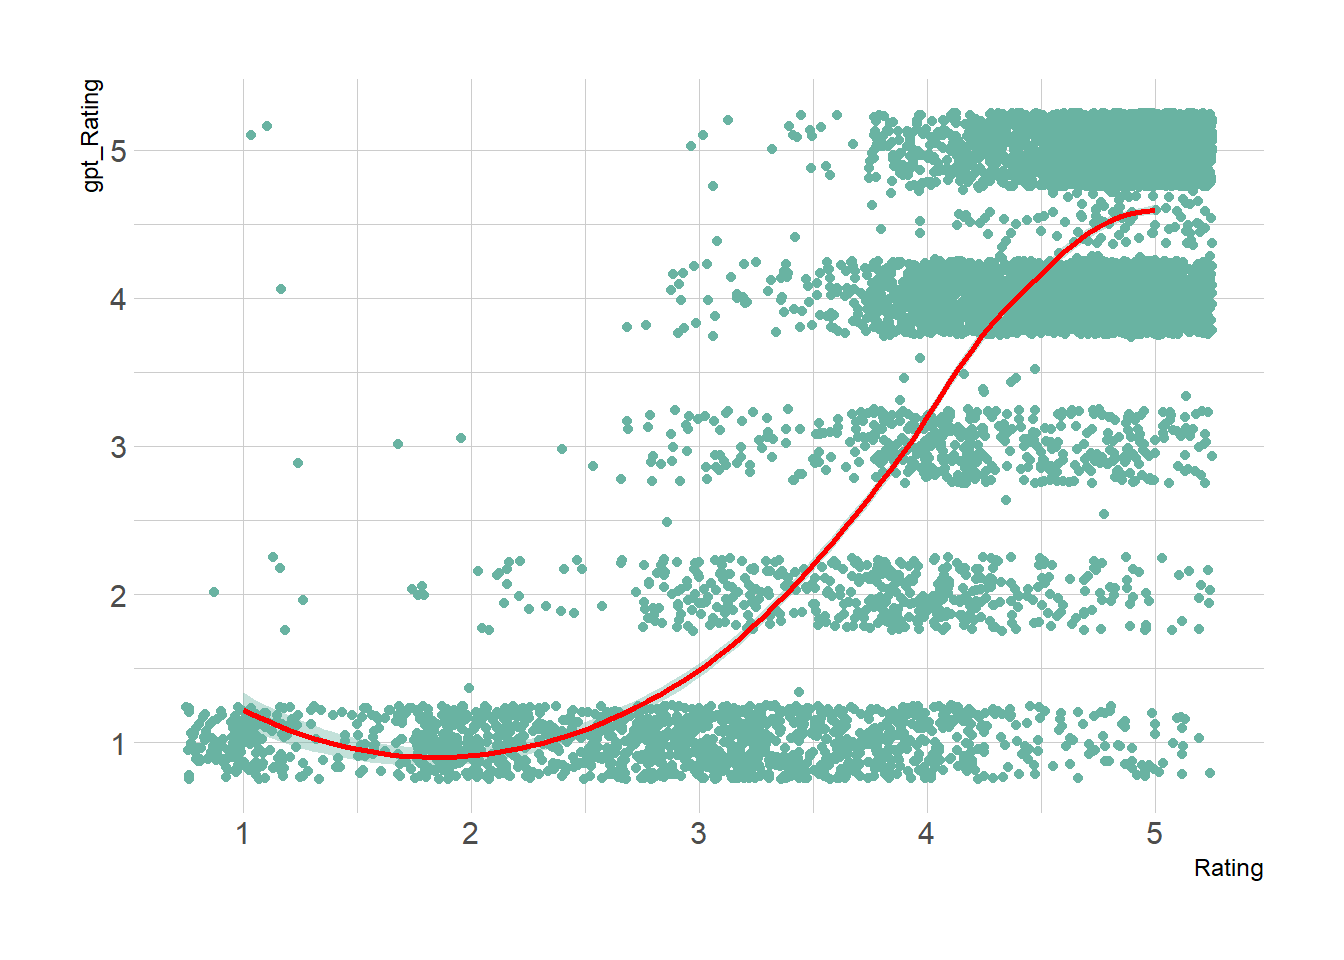
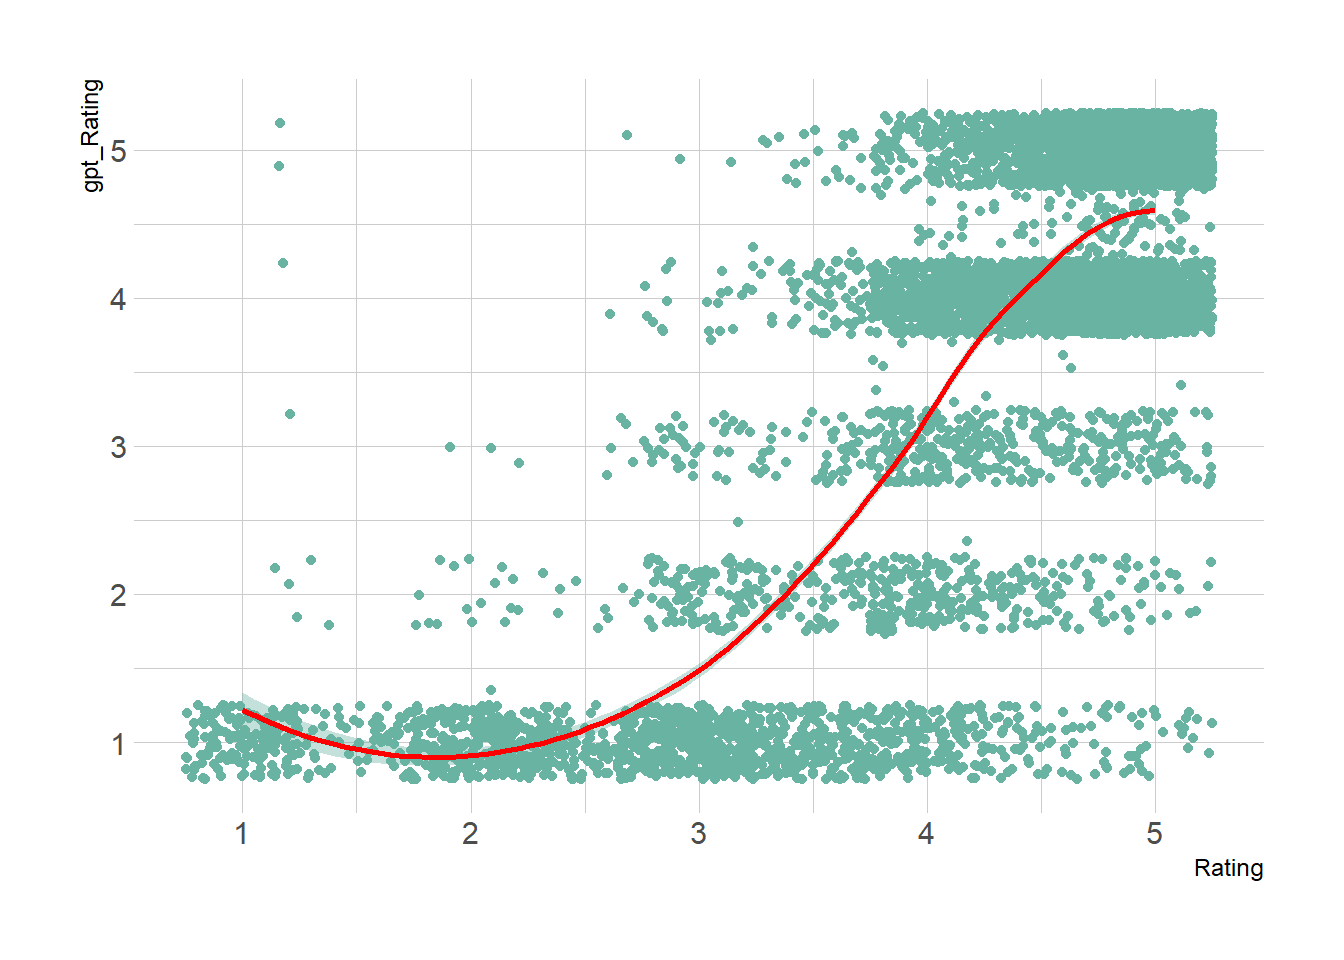
updates

diff --git a/docs/llm-assisted-text-analysis.html b/docs/llm-assisted-text-analysis.html
@@ -312,29 +312,29 @@ $ country       &lt;chr&gt; "American", "American", "American", "American", "Ame
 </thead>
 <tbody>
 <tr class="odd">
-<td style="text-align: left;">volvo</td>
-<td style="text-align: left;">Good Solid Car</td>
-<td style="text-align: left;">This is our third Volvo. The other two were station wagons (over 15 years ago). Purchased this for my 17 year old daughter as her first car. I am impressed because it is sporty enough for her and it is still a solid little Volvo. I just wish I could drive it sometime.</td>
+<td style="text-align: left;">hyundai</td>
+<td style="text-align: left;">Sonata is a great car</td>
+<td style="text-align: left;">I had an Excel before which was great, but the quality and value of the Sonata is outstanding. I use it for short commutes and long trips with the family and it does the job really well. I have had one problem with the power windows which was fixed under warrantee.</td>
 </tr>
 <tr class="even">
-<td style="text-align: left;">chevrolet</td>
-<td style="text-align: left;">hated it</td>
-<td style="text-align: left;">for me - strickly a younger persons truck - engine and transmission were loud - off road tires areloud and throws slush/mud/water up onto itself - making it impossible to keep clean especially in winter</td>
-</tr>
-<tr class="odd">
-<td style="text-align: left;">toyota</td>
-<td style="text-align: left;">Quiet ride with great MPG</td>
-<td style="text-align: left;">This car has a great and quiet ride. I am averaging about 38 MPG city/highway driving. I got 43.8 MPG on one recent interstate trip! Interior is roomy. Only complaint is poor acceleration from take-off.</td>
-</tr>
-<tr class="even">
-<td style="text-align: left;">kia</td>
-<td style="text-align: left;">Got it today</td>
-<td style="text-align: left;">Picked up my new Sedona today and couldn't be happier. After reading all the reviews in here, decided to take the plunge. Got a super deal on a super Minivan..woohoo!!! I can't believe all the goodies these vans are equipped with! I would recommend this vehicle to everyone!!!</td>
-</tr>
-<tr class="odd">
 <td style="text-align: left;">honda</td>
-<td style="text-align: left;">Honda Lude Review</td>
-<td style="text-align: left;">This is an excellent car and a shame Honda stopped production of the Prelude. A great used car and fortuneately for prospective buyers, good deals are out there for low- mileage Preludes.</td>
+<td style="text-align: left;">Wouldn’t buy another ever</td>
+<td style="text-align: left;">Great for fuel mileage and traction. Not comfortable to sit in for any period of time, no room for teenage kids. Cruise control is “wonky”, dealership charges an arm and a leg for maintenance.! Warranties/extra packages depreciate fast! Overall 2!</td>
+</tr>
+<tr class="odd">
+<td style="text-align: left;">subaru</td>
+<td style="text-align: left;">AWD supercar!</td>
+<td style="text-align: left;">This car is awesome. The handling and acceleration blows cars away at 2-3 times the price. The build quality is great and I love the way it looks. I really enjoy driving this car!</td>
+</tr>
+<tr class="even">
+<td style="text-align: left;">mercury</td>
+<td style="text-align: left;">Love IT!!!</td>
+<td style="text-align: left;">Just purchased today and I am thrilled. I was hesitant on buying American especially going from a VW to a Mercury but I love it. Very quick, full of pep and its an head turner.</td>
+</tr>
+<tr class="odd">
+<td style="text-align: left;">dodge</td>
+<td style="text-align: left;">Looks are deceiving!</td>
+<td style="text-align: left;">My '99 Intrepid ran great, looks great and is great, unless you have to diagnose a malfunction with it. One problem consist of 4 or 5 smaller problems together and will cost you an arm and a leg to fix correctly.</td>
 </tr>
 </tbody>
 </table>
@@ -360,10 +360,11 @@ Note: for first time, need to add your open_api_ai key as an environmental varia
 <span id="cb4-8"><a href="#cb4-8" aria-hidden="true" tabindex="-1"></a><span class="co"># confirm chat is connected to API</span></span>
 <span id="cb4-9"><a href="#cb4-9" aria-hidden="true" tabindex="-1"></a>chat<span class="sc">$</span><span class="fu">chat</span>(<span class="st">"Is R a functional programming language?"</span>)</span></code><button title="Copy to Clipboard" class="code-copy-button"><i class="bi"></i></button></pre></div>
 <div class="cell-output cell-output-stdout">
-<pre><code>Yes, R supports functional programming paradigms. You can use functions as 
-first-class objects, create higher-order functions, and employ functions like 
-`lapply`, `sapply`, and others for functional programming tasks. However, R is 
-multi-paradigm and also supports imperative and object-oriented programming.</code></pre>
+<pre><code>Yes, R supports functional programming paradigms, allowing you to treat 
+functions as first-class objects, use higher-order functions, and apply 
+functions to data. However, it also supports imperative and object-oriented 
+programming styles. So, while it has strong functional programming features, it
+is not purely a functional programming language.</code></pre>
 </div>
 </div>
 <p>Define the prompts that will be used to code the data:</p>
@@ -393,7 +394,7 @@ multi-paradigm and also supports imperative and object-oriented programming.</co
 <span id="cb6-23"><a href="#cb6-23" aria-hidden="true" tabindex="-1"></a></span>
 <span id="cb6-24"><a href="#cb6-24" aria-hidden="true" tabindex="-1"></a>text</span></code><button title="Copy to Clipboard" class="code-copy-button"><i class="bi"></i></button></pre></div>
 <div class="cell-output cell-output-stdout">
-<pre><code>[1] "Great car. Front end shake at 65-70mph \rI understand is a common complaint \rthese days. Design flaw in wheels. Snow \rgets packed in them and causes the \rwhole car to go out of balance and \rshake. Other than these relatively \rminor flaws, fast, fun, comfortable and \rthe looks you get..Great Car."</code></pre>
+<pre><code>[1] "I have only has the car a short time, but I am overall impressed. Good features for a compact car. I traded in a 2004 Acura TL because of financial reasons, and don't feel like I have given up a lot. I got the NAVI and Bose.  I would like to be able to play MP3 CDs, but got the cassette deck to use an adapter for my iPod.  Works fine. Much better utility than the TL.  My complaints are lack of dead pedal, mats are lousy, and the brake and accelerator are a bit too close.  I find the left side of my right foot hitting the brake when I put my foot on the gas or take it off.  My TL had great cupholders (seems silly, but used every day, right?), but these are good too."</code></pre>
 </div>
 <div class="sourceCode cell-code" id="cb8"><pre class="sourceCode r code-with-copy"><code class="sourceCode r"><span id="cb8-1"><a href="#cb8-1" aria-hidden="true" tabindex="-1"></a>chat <span class="ot">&lt;-</span> <span class="fu">chat_openai</span>()</span></code><button title="Copy to Clipboard" class="code-copy-button"><i class="bi"></i></button></pre></div>
 <div class="cell-output cell-output-stderr">
@@ -403,15 +404,15 @@ multi-paradigm and also supports imperative and object-oriented programming.</co
 <span id="cb10-2"><a href="#cb10-2" aria-hidden="true" tabindex="-1"></a><span class="fu">str</span>(coded.review)</span></code><button title="Copy to Clipboard" class="code-copy-button"><i class="bi"></i></button></pre></div>
 <div class="cell-output cell-output-stdout">
 <pre><code>List of 9
- $ sentiment      : chr "neutral"
+ $ sentiment      : chr "positive"
  $ gpt_Rating     : int 4
  $ reliability    : int 0
  $ utility        : int 1
- $ driving        : int 1
- $ comfort        : int 1
- $ interior       : int 0
+ $ driving        : int 0
+ $ comfort        : int 0
+ $ interior       : int 1
  $ fuel_efficiency: int 0
- $ technology     : int 0</code></pre>
+ $ technology     : int 1</code></pre>
 </div>
 </div>
 <p>The next step would be to loop through the entire corpus, coding each observation one-by-one. However, with over <span class="math inline">\(206,000\)</span> observations and about 2 seconds for each query to the API, this code would take about 5 days to run. For purposes of this demonstration, we’ll use a sample of <span class="math inline">\(7,000\)</span> randomly sampled observations:</p>
